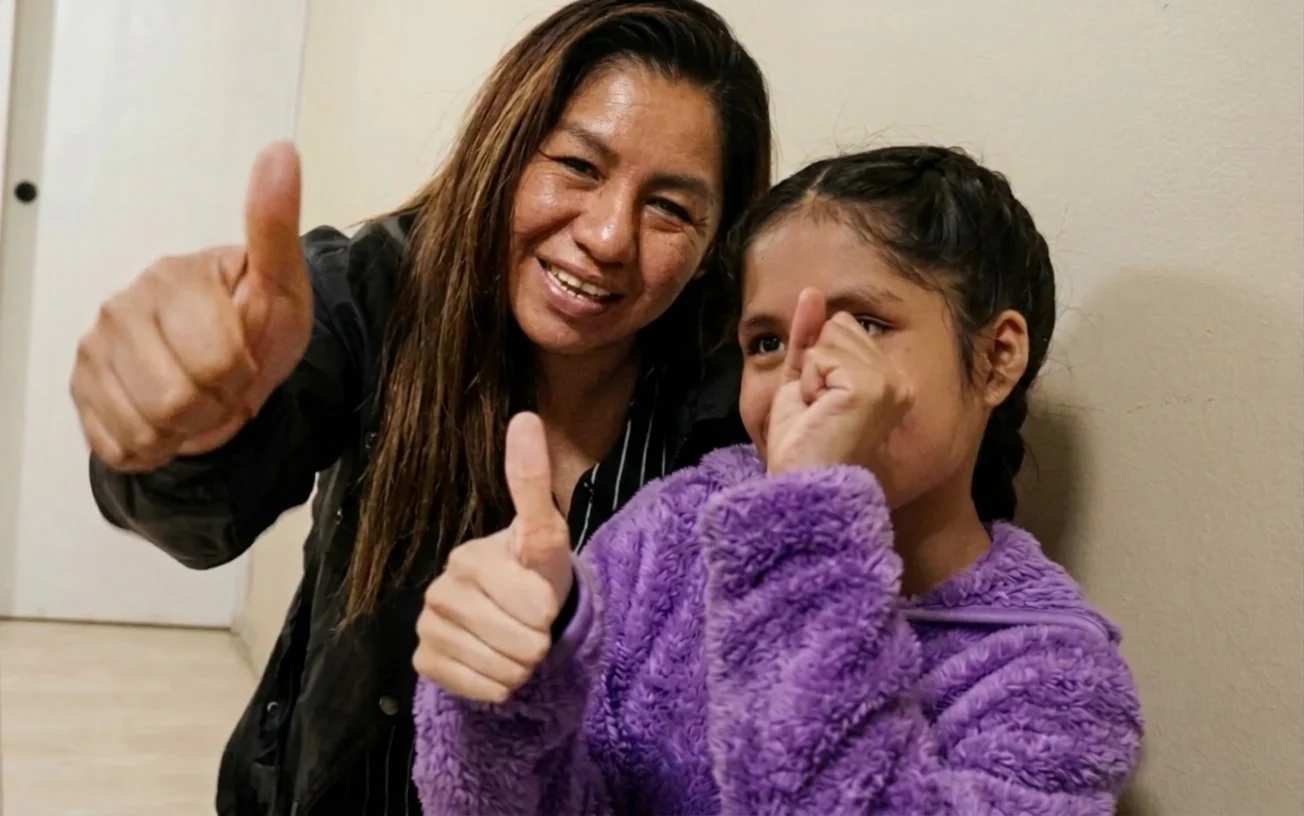
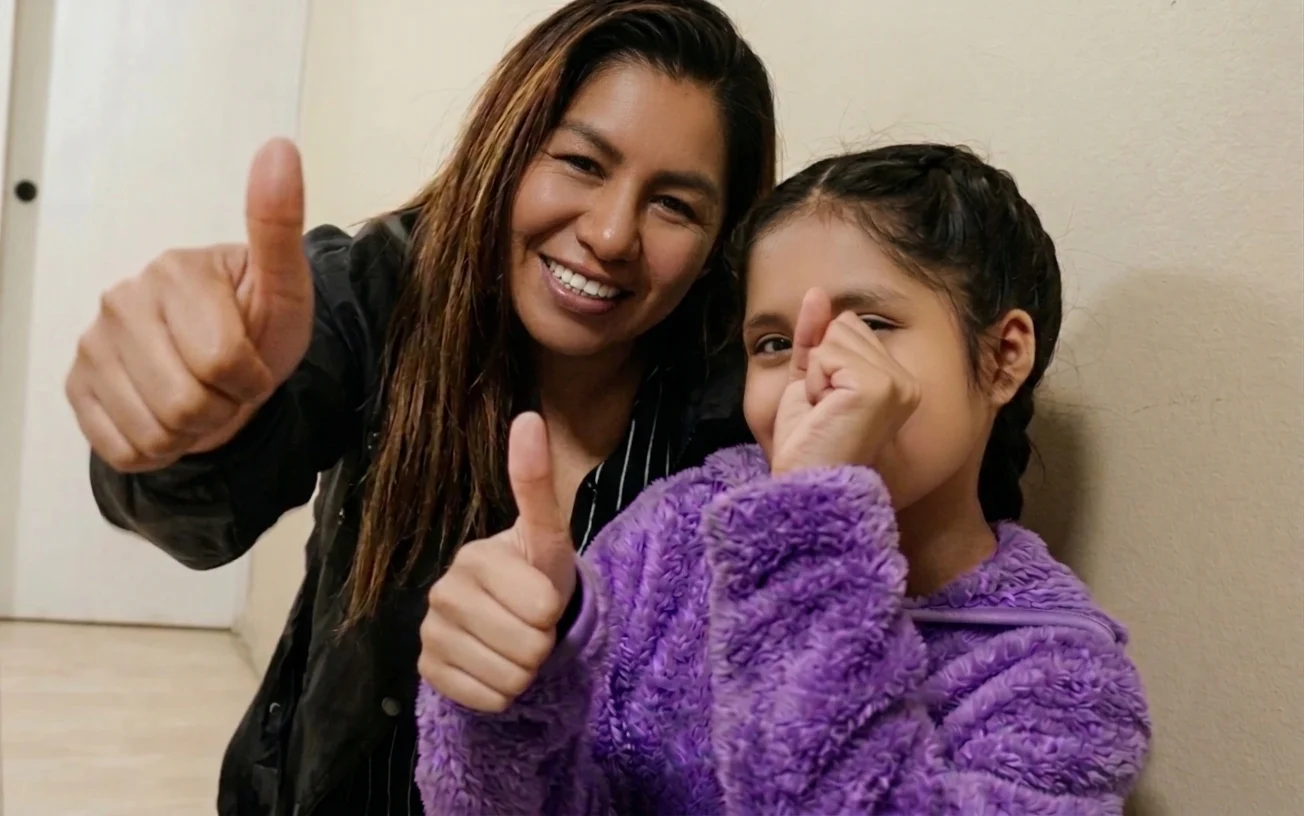
Nuestra historia: nueva versión de la foto familiar
Claude-Session: https://claude.ai/code/session_017aKRtHv876QQbe4TudP4kJ

diff --git a/index.html b/index.html
@@ -222,7 +222,7 @@
 
 <!-- Nosotros -->
 <section id="nosotros" class="seccion contenedor nosotros">
-  <img class="nosotros__foto" src="img/familia.webp?v=4" alt="La fundadora de Dashana y su hija Dayana sonriendo con el pulgar arriba" width="1304" height="816" loading="lazy">
+  <img class="nosotros__foto" src="img/familia.webp?v=5" alt="La fundadora de Dashana y su hija Dayana sonriendo con el pulgar arriba" width="1304" height="816" loading="lazy">
   <div class="nosotros__texto">
     <h2>Nuestra historia</h2>
     <p class="nosotros__lema">Dashana nació del amor de una madre por su hija.</p>
